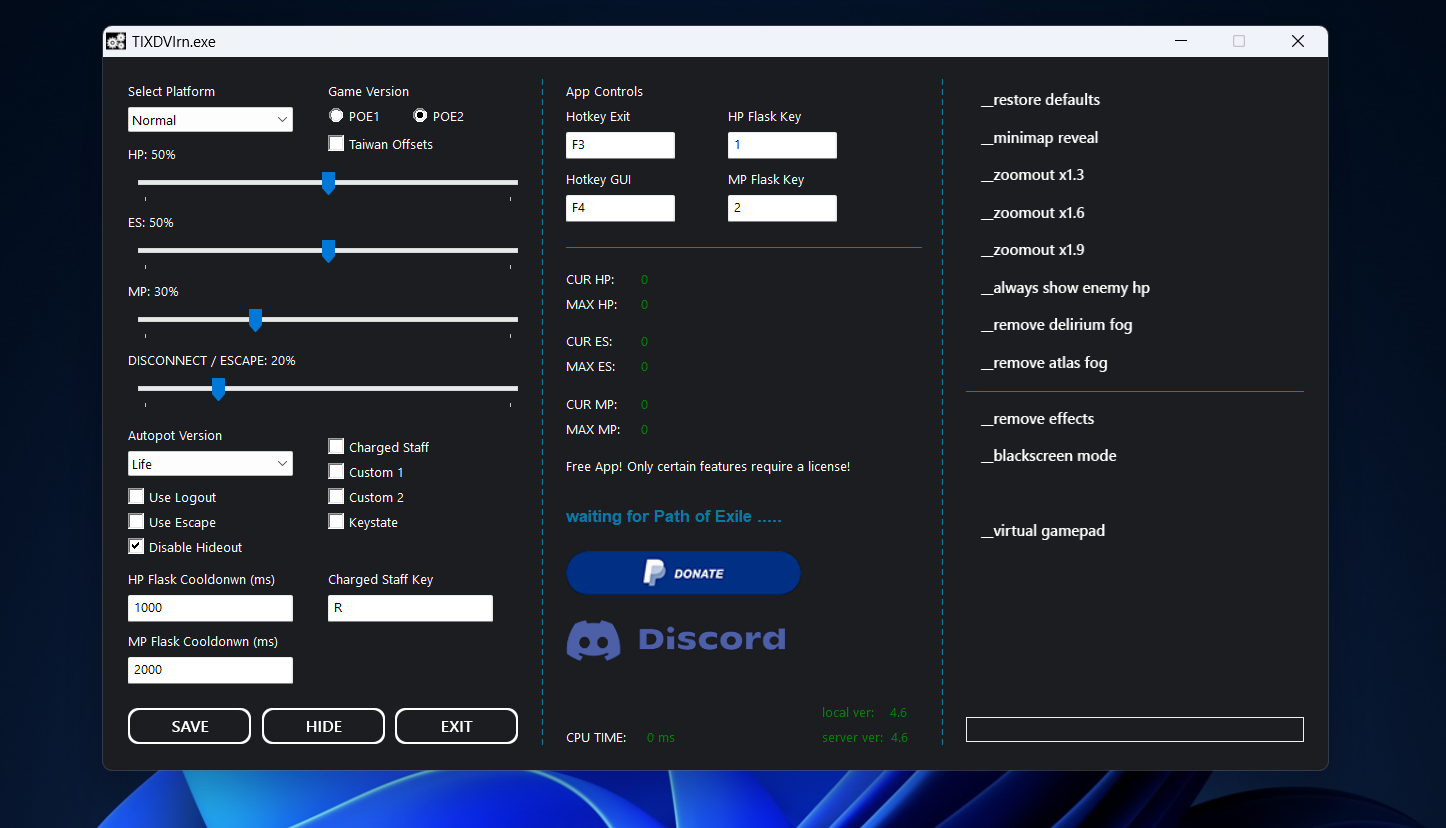
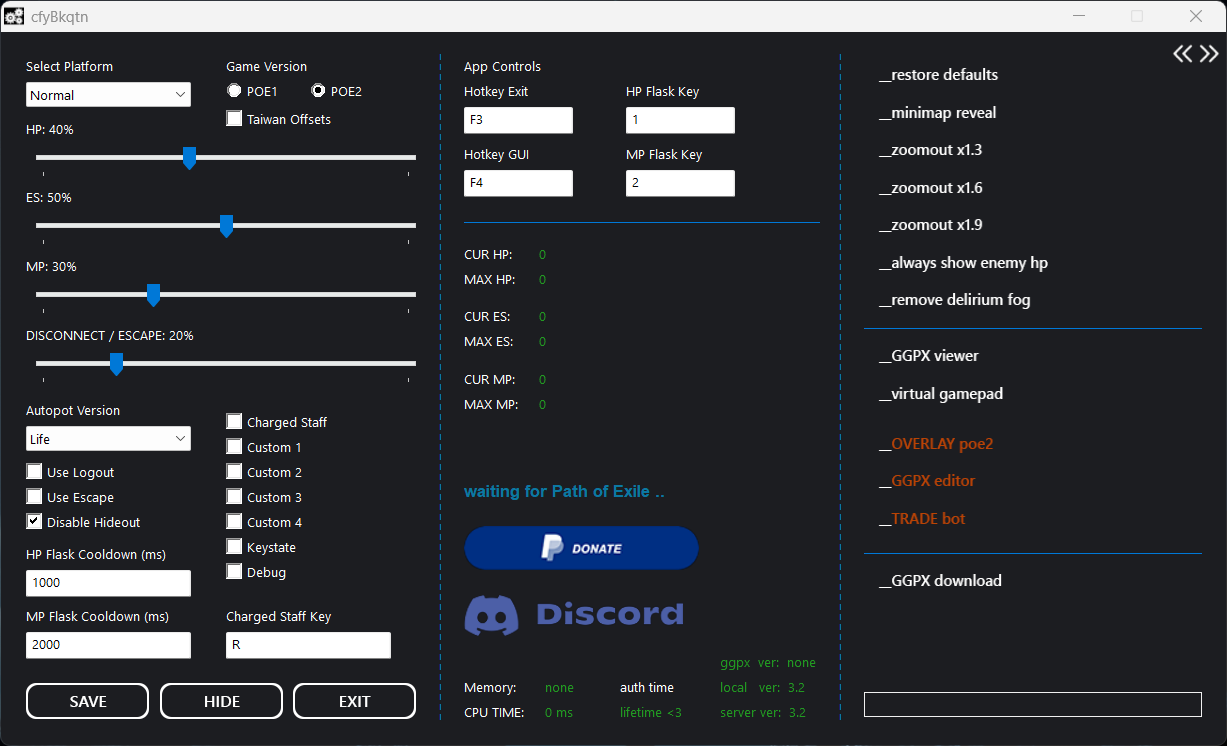
Restructure tab bar into rows; add AI Agent Scripting tab
- Tab bar is now stacked rows: Overview, a labeled Tutorials group, and
  a labeled Extra group — fixes the inline separator wrapping/cutoff on
  narrow screens. Removed the old .tab-sep markup and active-tab
  underline (the wrap hazard); active state stays clear via bg/border/glow
- New "AI Agent Scripting" tab in Extra: a copy-paste prompt that gives
  an AI agent the full scripting context (skeleton, _POEMEMORY API,
  helpers, rules, example), rendered in a fancy highlighted code panel
  with a copy button; embedded inline so it works on file:// too

diff --git a/_HTML/index.html b/_HTML/index.html
@@ -202,14 +202,29 @@
                ========================================================= */
             .tabbar {
                 display: flex;
-                gap: 8px;
-                flex-wrap: wrap;
-                padding: 7px;
+                flex-direction: column;
+                gap: 12px;
+                padding: 12px;
                 background: linear-gradient(180deg, var(--bg-2), rgba(20,16,31,0.6));
                 border: 1px solid var(--border);
                 border-radius: var(--radius);
                 box-shadow: inset 0 1px 0 rgba(255,255,255,0.03), 0 18px 40px -28px #000;
             }
+            .tab-group { display: flex; flex-direction: column; gap: 8px; }
+            .tab-group-label {
+                display: inline-flex;
+                align-items: center;
+                gap: 7px;
+                padding-left: 3px;
+                font-family: var(--font-head);
+                font-weight: 600;
+                font-size: 0.68rem;
+                letter-spacing: 2px;
+                text-transform: uppercase;
+                color: var(--faint);
+            }
+            .tab-group-label i { color: var(--accent); opacity: 0.85; font-size: 0.78rem; }
+            .tab-row { display: flex; flex-wrap: wrap; gap: 8px; }
 
             .tab {
                 position: relative;
@@ -240,42 +255,6 @@
                 box-shadow: 0 0 0 1px var(--border-accent), 0 8px 24px -12px var(--accent-glow);
             }
             .tab.active i { color: var(--accent); opacity: 1; }
-            .tab.active::after {
-                content: "";
-                position: absolute;
-                left: 16px; right: 16px; bottom: -8px;
-                height: 2px;
-                border-radius: 2px;
-                background: linear-gradient(90deg, transparent, var(--accent), transparent);
-                box-shadow: 0 0 10px var(--accent-glow);
-            }
-
-            /* divider + "TUTORIALS" group label before the feature tabs */
-            .tab-sep {
-                display: inline-flex;
-                align-items: center;
-                gap: 11px;
-                padding: 0 4px 0 8px;
-                user-select: none;
-            }
-            .tab-sep-line {
-                width: 1px;
-                height: 28px;
-                background: var(--border);
-            }
-            .tab-sep-label {
-                display: inline-flex;
-                align-items: center;
-                gap: 7px;
-                font-family: var(--font-head);
-                font-weight: 600;
-                font-size: 0.68rem;
-                letter-spacing: 2px;
-                text-transform: uppercase;
-                color: var(--faint);
-                white-space: nowrap;
-            }
-            .tab-sep-label i { color: var(--accent); opacity: 0.85; font-size: 0.78rem; }
 
             /* =========================================================
                PANELS
@@ -935,6 +914,36 @@
             .codeblock .c { color: var(--faint); font-style: italic; }
             .codeblock .fn { color: #8a9bff; }
 
+            /* copy button in a code header */
+            .code-copy {
+                margin-left: auto;
+                display: inline-flex;
+                align-items: center;
+                gap: 6px;
+                font-family: var(--font-head);
+                font-weight: 600;
+                font-size: 0.66rem;
+                letter-spacing: 1px;
+                text-transform: uppercase;
+                color: var(--accent-2);
+                background: var(--accent-soft);
+                border: 1px solid var(--border-accent);
+                padding: 4px 11px;
+                border-radius: 6px;
+                cursor: pointer;
+                transition: all 0.15s ease;
+            }
+            .code-copy:hover {
+                color: #1a0e00;
+                background: linear-gradient(135deg, var(--accent), #ff5e00);
+                border-color: transparent;
+            }
+
+            /* ai prompt block — prose, so wrap instead of scroll sideways */
+            .codeblock.prompt { white-space: pre-wrap; word-break: break-word; }
+            .codeblock .pt { color: #fff; font-weight: 700; letter-spacing: 0.5px; }   /* # title */
+            .codeblock .ph { color: var(--accent); font-weight: 700; letter-spacing: 0.5px; } /* ## header */
+
             .ref-table {
                 width: 100%;
                 border-collapse: collapse;
@@ -1080,39 +1089,44 @@
         <main class="shell">
             <!-- ===================== TAB BAR ===================== -->
             <nav class="tabbar" role="tablist">
-                <button class="tab active" data-tab="overview" role="tab">
-                    <i class="fa-solid fa-house"></i> Overview
-                </button>
+                <div class="tab-row">
+                    <button class="tab active" data-tab="overview" role="tab">
+                        <i class="fa-solid fa-house"></i> Overview
+                    </button>
+                </div>
 
-                <span class="tab-sep" aria-hidden="true">
-                    <span class="tab-sep-line"></span>
-                    <span class="tab-sep-label"><i class="fa-solid fa-graduation-cap"></i> Tutorials</span>
-                </span>
+                <div class="tab-group">
+                    <span class="tab-group-label"><i class="fa-solid fa-graduation-cap"></i> Tutorials</span>
+                    <div class="tab-row">
+                        <button class="tab tab-tut" data-tab="updater" role="tab">
+                            <i class="fa-solid fa-cloud-arrow-down"></i> Assistant Updater
+                        </button>
+                        <button class="tab tab-tut" data-tab="assistant" role="tab">
+                            <i class="fa-solid fa-robot"></i> Assistant App
+                        </button>
+                        <button class="tab tab-tut" data-tab="overlay" role="tab">
+                            <i class="fa-solid fa-layer-group"></i> Overlay POE
+                        </button>
+                        <button class="tab tab-tut" data-tab="ggpx" role="tab">
+                            <i class="fa-solid fa-file-code"></i> GGPX Editor
+                        </button>
+                        <button class="tab tab-tut" data-tab="trade" role="tab">
+                            <i class="fa-solid fa-arrow-right-arrow-left"></i> Trade Bot
+                        </button>
+                    </div>
+                </div>
 
-                <button class="tab tab-tut" data-tab="updater" role="tab">
-                    <i class="fa-solid fa-cloud-arrow-down"></i> Assistant Updater
-                </button>
-                <button class="tab tab-tut" data-tab="assistant" role="tab">
-                    <i class="fa-solid fa-robot"></i> Assistant App
-                </button>
-                <button class="tab tab-tut" data-tab="overlay" role="tab">
-                    <i class="fa-solid fa-layer-group"></i> Overlay POE
-                </button>
-                <button class="tab tab-tut" data-tab="ggpx" role="tab">
-                    <i class="fa-solid fa-file-code"></i> GGPX Editor
-                </button>
-                <button class="tab tab-tut" data-tab="trade" role="tab">
-                    <i class="fa-solid fa-arrow-right-arrow-left"></i> Trade Bot
-                </button>
-
-                <span class="tab-sep" aria-hidden="true">
-                    <span class="tab-sep-line"></span>
-                    <span class="tab-sep-label"><i class="fa-solid fa-star"></i> Extra</span>
-                </span>
-
-                <button class="tab tab-extra" data-tab="scripting" role="tab">
-                    <i class="fa-solid fa-code"></i> In-depth Scripting
-                </button>
+                <div class="tab-group">
+                    <span class="tab-group-label"><i class="fa-solid fa-star"></i> Extra</span>
+                    <div class="tab-row">
+                        <button class="tab tab-extra" data-tab="scripting" role="tab">
+                            <i class="fa-solid fa-code"></i> In-depth Scripting
+                        </button>
+                        <button class="tab tab-extra" data-tab="aiscripting" role="tab">
+                            <i class="fa-solid fa-wand-magic-sparkles"></i> AI Agent Scripting
+                        </button>
+                    </div>
+                </div>
             </nav>
 
             <!-- ===================== OVERVIEW PANEL (current content) ===================== -->
@@ -1594,6 +1608,94 @@
                     </div>
                 </div>
             </section>
+
+            <!-- ===================== AI AGENT SCRIPTING (extra) ===================== -->
+            <section class="panel" id="panel-aiscripting" role="tabpanel">
+                <div class="card tut">
+                    <div class="tut-head">
+                        <span class="eyebrow">Extra</span>
+                        <h2 class="section-title"><span class="bar"></span>AI Agent Scripting</h2>
+                        <p class="tut-intro">don't want to learn autohotkey? hand this prompt to an ai agent and describe what you want — it already has everything it needs to write a working script.</p>
+                    </div>
+                    <div class="tut-section">
+                        <p class="tut-text">copy the prompt below, paste it into your ai of choice, then tell it what the script should do. paste the result into a <code>THREAD_CUSTOM_X.AHK</code> file and enable that checkbox — see <span class="ui">In-depth Scripting</span> for how to run it.</p>
+                        <div class="code-wrap prompt-block">
+                            <div class="code-head"><span class="dot"></span>ai agent prompt<button class="code-copy" type="button"><i class="fa-regular fa-copy"></i> copy</button></div>
+<pre class="codeblock prompt"><script type="text/plain">
+# ROLE
+You are an expert AutoHotkey v1 scripter. You write small automation "thread" scripts for the POE Assistant app, a Path of Exile / PoE2 helper. The user describes what a script should do; you reply with one complete, ready-to-run AutoHotkey v1 script and nothing else.
+
+## HOW THESE SCRIPTS RUN
+- Each script runs as an independent thread inside the app.
+- The user pastes your script into a file named `THREAD_CUSTOM_1.AHK` (or `_2`, `_3`, ...) and enables the matching checkbox in the app.
+- The app exposes live game state through a global object called `_POEMEMORY`, plus a few helper functions. Use ONLY the API documented below — never invent fields or functions.
+
+## REQUIRED SKELETON
+Every script MUST start from this exact skeleton and put its logic where it says YOUR CODE GOES HERE:
+
+#Include dependencies\includes\_INCLUDES_THREAD
+
+global KeyDelayTimes := {}
+global LastPressTime := {}
+THREAD_WAIT(_TICK_UPDATE_WAIT*8)
+LoadSettings()
+
+; MAIN LOOP
+Loop {
+    if ( (_POEMEMORY.ERROR == "NONE") AND (InTown() == false) AND (_POEMEMORY.CURHP > 0) ) {
+        if ( CheckPoeWindow() == true ) {
+            ; YOUR CODE GOES HERE
+        }
+    }
+    THREAD_WAIT(_TICK_UPDATE_CRITICAL)
+}
+
+- Keep the guard conditions intact: act only when there is no error, the player is not in town, the player is alive, and the PoE window is focused.
+- Never spin in a tight loop — always yield with `THREAD_WAIT` between iterations.
+
+## MEMORY API (_POEMEMORY)
+- `_POEMEMORY.ERROR` -> "NONE" when everything is fine
+- `_POEMEMORY.CURHP` / `.CURMANA` / `.CURES` -> current life / mana / energy shield
+- `_POEMEMORY.MAXHP` / `.MAXMANA` / `.MAXES` -> the matching maximums
+- `_POEMEMORY.CURAREA` -> name of the current area
+- `_POEMEMORY.BUFFLIST` -> map of active buffs / debuffs, keyed by internal name
+  - `_POEMEMORY.BUFFLIST.HasKey("name")` -> true if that buff is present
+  - `_POEMEMORY.BUFFLIST["name"].DURATION` -> seconds remaining (float)
+  - `_POEMEMORY.BUFFLIST["name"].CHARGES` -> stack / charge count
+  - `_POEMEMORY.BUFFLIST["name"].UISTACK` -> UI stack count
+
+For a percentage, divide — e.g. life% = `_POEMEMORY.CURHP / _POEMEMORY.MAXHP * 100`.
+
+## HELPER FUNCTIONS
+- `PressKey(key, holdMs)` -> press / hold a key for holdMs milliseconds, e.g. PressKey("Q", 50)
+- `THREAD_WAIT(ms)` -> sleep this thread for ms milliseconds
+- `InTown()` -> true while in a town / hideout
+- `CheckPoeWindow()` -> true while the PoE window is focused
+- `LoadSettings()` -> already called in the skeleton; do not remove it
+
+## FINDING BUFF NAMES
+Buff keys are internal names such as "power_charge", "frenzy_charge", "endurance_charge", "tangle_drowning". The user can enable the "Debug" checkbox in the app to print every buff currently on their character, then copy the exact key.
+
+## RULES
+- AutoHotkey v1 syntax only.
+- Output the full script (skeleton + logic), ready to paste — no prose, no markdown code fences.
+- Add short ; comments explaining each block.
+- Expose tunable values (thresholds, delays, keys) as named globals near the top of the script.
+- Only read the memory fields and call the functions listed above.
+- If the request is ambiguous (which key? what threshold?), ask one short clarifying question first.
+
+## STYLE EXAMPLE
+; recast charged staff before it runs out, while power charges are up
+if (_POEMEMORY.BUFFLIST.HasKey("power_charge") AND _POEMEMORY.BUFFLIST["power_charge"].CHARGES > 0) {
+    if (_POEMEMORY.BUFFLIST.HasKey("charged_staff_stack") AND _POEMEMORY.BUFFLIST["charged_staff_stack"].DURATION < 2.0) {
+        PressKey(_SCRIPT_CHARGED_STAFF_KEY, 1000)
+    }
+}
+</script></pre>
+                        </div>
+                    </div>
+                </div>
+            </section>
         </main>
 
         <footer>
@@ -1765,6 +1867,36 @@
                 });
             }
 
+            /* ---------- ai prompt block (fancy highlight + copy) ---------- */
+            function highlightPrompt(raw) {
+                return raw.split("\n").map(function (line) {
+                    if (/^#\s+/.test(line))  return '<span class="pt">' + escapeHtml(line.replace(/^#\s+/, "")) + '</span>';
+                    if (/^##\s+/.test(line)) return '<span class="ph">' + escapeHtml(line.replace(/^##\s+/, "")) + '</span>';
+                    let h = escapeHtml(line);
+                    h = h.replace(/`([^`]+)`/g, '<span class="fn">$1</span>');                 // inline code
+                    h = h.replace(/"[^"]*"/g, function (m) { return '<span class="s">' + m + '</span>'; }); // strings
+                    h = h.replace(/^(\s*)-\s/, '$1<span class="k">-</span> ');                  // bullet dash
+                    return h;
+                }).join("\n");
+            }
+            function initPrompts() {
+                document.querySelectorAll(".prompt-block").forEach(function (block) {
+                    const pre = block.querySelector("pre.prompt");
+                    if (!pre) return;
+                    const srcEl = pre.querySelector("script");
+                    const raw = (srcEl ? srcEl.textContent : pre.textContent).replace(/^\n/, "").replace(/\s+$/, "");
+                    pre.innerHTML = highlightPrompt(raw);
+                    const btn = block.querySelector(".code-copy");
+                    if (btn) btn.addEventListener("click", function () {
+                        navigator.clipboard.writeText(raw).then(function () {
+                            const old = btn.innerHTML;
+                            btn.innerHTML = '<i class="fa-solid fa-check"></i> copied!';
+                            setTimeout(function () { btn.innerHTML = old; }, 2000);
+                        });
+                    });
+                });
+            }
+
             /* ---------- copy discord id ---------- */
             function copyDiscordID() {
                 const button = document.getElementById("btn-discord-name");
@@ -1907,6 +2039,7 @@
                 document.querySelectorAll(".slideshow").forEach(initSlideshow);
                 loadCodeBlocks();
                 initShots();
+                initPrompts();
             });
         </script>
     </body>
